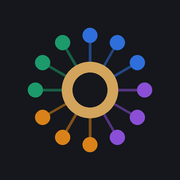
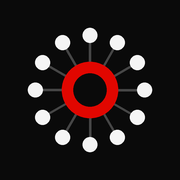
Identidade ROITY (preto e vermelho), visão geral por entregas da semana, mapa mais limpo
- Paleta e logotipo ROITY no app, ícones, apresentação e relatório mensal
- Apresentação com textos voltados ao cliente
- Ligações pilar-mês aparecem só ao focar pilar ou abrir mês
- Visão geral mostra as entregas da semana de cada clínica

Changed region(s): [[0.1389, 0.1389, 0.8611, 0.8611]]

diff --git a/js/app.js b/js/app.js
@@ -97,42 +97,48 @@ VIEWS.visao = () => {
   const meetings = open.filter((t) => t.meeting && t.due >= today && t.due <= wEnd);
   const pendingCr = S.creatives.filter((x) => { const c = clinicById(x.clinicId); return c && currentMonth(c) === x.month && !['em_uso', 'aprovado', 'nao_necessario'].includes(x.status); });
   const goal = S.settings.goalClinics;
-  const byMonth = Array.from({ length: 12 }, (_, i) => journeyClinics().filter((c) => ['ativo', 'onboarding'].includes(c.stage) && currentMonth(c) === i + 1));
-  const maxBy = Math.max(1, ...byMonth.map((l) => l.length));
   const cap = capacity();
   const alerts = buildAlerts();
   const hasDemo = S.clinics.some((c) => c.demo);
-  const upcoming = open.filter((t) => t.due <= wEnd).sort((a, b) => a.due.localeCompare(b.due)).slice(0, 8);
+  const upcoming = open.filter((t) => t.due <= wEnd);
+
+  const weekClinics = journeyClinics().filter((c) => ['ativo', 'onboarding'].includes(c.stage)).map((c) => {
+    const n = currentMonth(c);
+    const tasks = open.filter((t) => t.clinicId === c.id && t.due <= wEnd).sort((a, b) => a.due.localeCompare(b.due));
+    return { c, n, tasks, st: n >= 1 && n <= 12 ? monthData(c, n).state : null };
+  });
+  const hello = (() => { const h = +new Intl.DateTimeFormat('pt-BR', { timeZone: TZ, hour: 'numeric', hour12: false }).format(new Date()); return h < 12 ? 'Bom dia' : h < 18 ? 'Boa tarde' : 'Boa noite'; })();
 
   view().innerHTML = `
     ${hasDemo ? `<div class="notice">Você está vendo <b>dados de demonstração</b> (marcados DEMO). Remova-os em <a href="#/config">Configurações</a> quando cadastrar suas clínicas.</div>` : ''}
-    <div class="kpis">
+    <div class="hello"><small>${fmtDate(today, { weekday: 'long', day: '2-digit', month: 'long' })}</small><h2>${hello}, ${esc(S.me)}.</h2>
+      <p>${overdue.length ? `<b class="red">${overdue.length} entrega(s) atrasada(s)</b> · ` : ''}${upcoming.length ? `${open.filter((t) => t.due <= wEnd).length} entrega(s) até ${fmtShort(wEnd)}` : 'Nada vencendo esta semana'} · ${meetings.length} reunião(ões)</p></div>
+    <div class="kpis k4">
       <a class="kpi" href="#/clinicas"><span>Clínicas ativas</span><b>${active.length}<small> / ${goal}</small></b>
         <div class="bar"><i style="width:${Math.min(100, (active.length / goal) * 100)}%"></i></div></a>
-      <a class="kpi" href="#/financeiro"><span>MRR bruto (contratado)</span><b>${money(mrr)}</b><em>Meta: ${money(goal * 2500)}</em></a>
-      <a class="kpi" href="#/clinicas"><span>Em onboarding</span><b>${onb.length}</b><em>${S.clinics.filter((c) => ['lead', 'proposta', 'negociacao'].includes(c.stage)).length} no pipeline</em></a>
-      <a class="kpi ${overdue.length ? 'warn' : ''}" href="#/tarefas" data-act="tf" data-f="atrasadas"><span>Tarefas atrasadas</span><b>${overdue.length}</b><em>${todayT.length} para hoje</em></a>
-      <a class="kpi" href="#/calendario"><span>Reuniões em 7 dias</span><b>${meetings.length}</b><em>${S.clinics.filter((c) => c.stage === 'ativo').length * 2} previstas/mês</em></a>
-      <a class="kpi" href="#/criativos"><span>Criativos pendentes</span><b>${pendingCr.length}</b><em>mês atual de cada clínica</em></a>
+      <a class="kpi" href="#/financeiro"><span>MRR contratado</span><b>${money(mrr)}</b><em>Meta: ${money(goal * 2500)}</em></a>
+      <a class="kpi ${overdue.length ? 'warn' : ''}" href="#/tarefas" data-act="tf" data-f="atrasadas"><span>Atrasadas</span><b>${overdue.length}</b><em>${todayT.length} para hoje</em></a>
+      <a class="kpi" href="#/criativos"><span>Criativos em produção</span><b>${pendingCr.length}</b><em>${onb.length} clínica(s) em onboarding</em></a>
     </div>
+    <h3 class="sec-t">Entregas da semana por clínica</h3>
+    ${weekClinics.length ? `<div class="wk">${weekClinics.map(({ c, n, tasks, st }) => `
+      <section class="card wkc">
+        <header><div><h3><a href="#/clinica/${c.id}">${esc(c.name)}</a>${demoBadge(c)}</h3>
+          <small>${n >= 1 && n <= 12 ? `Mês ${n} · ${esc(c.journey.template[n - 1].short)}` : n > 12 ? 'Jornada encerrada' : 'Começa ' + fmtShort(c.startDate)}</small></div>
+          <a class="btn sm" href="#/mapa/${c.id}" data-act="openMap" data-id="${c.id}">Mapa</a></header>
+        ${st ? `<div class="wk-p"><div class="bar"><i style="width:${st.p * 100}%"></i></div><span>${Math.round(st.p * 100)}% do mês</span></div>` : ''}
+        ${tasks.length ? `<ul class="tlist">${tasks.slice(0, 6).map((t) => taskRow(t, { day: true })).join('')}</ul>${tasks.length > 6 ? `<a class="link" href="#/tarefas" data-act="tf" data-f="semana">+ ${tasks.length - 6} entrega(s)</a>` : ''}` : empty('Nada para esta semana.')}
+      </section>`).join('')}</div>` : empty('Nenhuma clínica ativa com jornada. Cadastre uma em Clínicas.')}
     <div class="grid2">
-      <section class="card">
-        <header><h3>Próximos 7 dias</h3><a href="#/tarefas" class="link">Ver tarefas →</a></header>
-        ${upcoming.length ? `<ul class="tlist">${upcoming.map(taskRow).join('')}</ul>` : empty('Nada vencendo nos próximos 7 dias.')}
-      </section>
       <section class="card">
         <header><h3>Alertas</h3></header>
         ${alerts.length ? `<ul class="alerts">${alerts.map((a) => `<li class="al-${a.k}"><b>${esc(a.t)}</b><span>${a.d}</span></li>`).join('')}</ul>` : empty('Sem alertas no momento.')}
       </section>
       <section class="card">
-        <header><h3>Clínicas por mês da jornada</h3></header>
-        <div class="months-bars">${byMonth.map((l, i) => `<div class="mb" title="Mês ${i + 1}: ${l.length}"><i style="height:${(l.length / maxBy) * 100}%;background:${PILLARS[MONTHS[i].pillars[0]].color}"></i><b>${l.length || ''}</b><span>${i + 1}</span></div>`).join('')}</div>
-      </section>
-      <section class="card">
-        <header><h3>Carga operacional estimada (mês)</h3><a class="link" href="#/config">Ajustar →</a></header>
+        <header><h3>Carga de trabalho estimada (mês)</h3><a class="link" href="#/config">Ajustar →</a></header>
         ${Object.entries(cap.people).map(([p, v]) => `<div class="cap"><div class="cap-h"><b>${p}</b><span>${v.need.toFixed(0)}h de ${v.cap}h</span></div>
           <div class="bar ${v.need > v.cap ? 'over' : ''}"><i style="width:${Math.min(100, (v.need / v.cap) * 100)}%"></i></div></div>`).join('')}
-        <p class="hint">Estimativa a partir das tarefas do mês atual de cada clínica ativa + ${CREATIVES_PER_MONTH} criativos × ${S.settings.hoursPerCreative}h. Reuniões: ${active.length * 2}h/mês. Não inclui suporte e administração.</p>
+        <p class="hint">Tarefas do mês atual de cada clínica + ${CREATIVES_PER_MONTH} criativos × ${S.settings.hoursPerCreative}h. Reuniões: ${active.length * 2}h/mês. Não inclui suporte.</p>
       </section>
     </div>`;
 };
@@ -454,16 +460,26 @@ VIEWS.relatorio = () => {
       <div class="btns"><label class="chkl"><input type="checkbox" data-act="approveReport" data-c="${c.id}" data-n="${n}" ${approved ? 'checked' : ''}> Revisado e aprovado por Tiago</label>
       <button class="btn primary" data-act="print">Salvar PDF / Imprimir</button></div></div>
     <article class="report">
-      <header><div class="rlogo">ROITY · MBCR</div><h1>Relatório mensal — Mês ${n}</h1><p>${esc(c.name)} · ${fmtDate(monthStart(c, n))} a ${fmtDate(monthEnd(c, n))}</p>
-        <p class="${approved ? '' : 'draft'}">${approved ? `Aprovado por ${esc(approved.who)} em ${fmtDate(approved.at.slice(0, 10))}` : 'RASCUNHO — aguardando revisão de Tiago antes do envio'}</p></header>
-      <h2>${esc(md.title)}</h2><p>${esc(md.desc)}</p>
-      <h3>Ações executadas (${done.length})</h3><ul>${done.map((t) => `<li>${esc(t.title)}${t.evidence ? ` — <i>${esc(t.evidence)}</i>` : ''}</li>`).join('') || '<li>—</li>'}</ul>
-      <h3>Pendências (${pend.length})</h3><ul>${pend.map((t) => `<li>${esc(t.title)} <small>(${esc(t.owner)} · ${statusName(t.status)})</small></li>`).join('') || '<li>Nenhuma</li>'}</ul>
-      ${next ? `<h3>Próximos passos — Mês ${n + 1}: ${esc(next.title)}</h3><ul>${next.novo.map((t) => `<li>${esc(t.title)}</li>`).join('')}</ul>` : '<h3>Próximos passos</h3><p>Plano do próximo ciclo e proposta de renovação.</p>'}
+      <div class="r-band"><span class="r-word">ROITY</span><div><b>Relatório mensal — Mês ${n}</b><small>${esc(md.title).toUpperCase()}</small></div></div>
+      <div class="r-red"></div>
+      <div class="r-body">
+        <div class="r-eyebrow">RELATÓRIO MENSAL · ${fmtDate(monthStart(c, n), { month: 'long', year: 'numeric' }).toUpperCase()}</div>
+        <h1>${esc(c.name)}</h1>
+        <p class="${approved ? 'r-ok' : 'draft'}">${approved ? `Revisado e aprovado por ${esc(approved.who)} em ${fmtDate(approved.at.slice(0, 10))}` : 'RASCUNHO — aguardando revisão de Tiago antes do envio'}</p>
+        <div class="r-stats"><div class="hero"><span>ENTREGAS CONCLUÍDAS</span><b>${done.length}/${md.tasks.length}</b></div><div><span>PERÍODO</span><b>${fmtShort(monthStart(c, n))} – ${fmtShort(monthEnd(c, n))}</b></div><div><span>MÊS DA JORNADA</span><b>${n} de 12</b></div></div>
+        <h2><span class="r-badge">01</span>Foco do mês</h2><p>${esc(md.desc)}</p>
+        <h2><span class="r-badge">02</span>O que entregamos</h2><ol>${done.map((t) => `<li><b>${esc(clientTitle(t.title))}</b>${t.evidence ? ` — ${esc(t.evidence)}` : ''}</li>`).join('') || '<li>—</li>'}</ol>
+        ${pend.length ? `<div class="r-alert"><b>PENDÊNCIAS</b><ul>${pend.map((t) => `<li>${esc(clientTitle(t.title))} <small>(${t.owner === 'Clínica' ? 'depende da clínica' : statusName(t.status)})</small></li>`).join('')}</ul></div>` : ''}
+        <h2><span class="r-badge">03</span>Próximos passos</h2>
+        ${next ? `<p><b>Mês ${n + 1}: ${esc(next.title)}</b></p><ol>${next.novo.map((t) => `<li>${esc(clientTitle(t.title))}</li>`).join('')}</ol>` : '<p>Plano do próximo ciclo e proposta de renovação.</p>'}
+        <footer class="r-foot"><span><b>${esc(c.name).toUpperCase()}</b> · RELATÓRIO MENSAL</span><span>ROITY · MÉTODO MBCR</span></footer>
+      </div>
     </article>`;
 };
 
 // ---------- Apresentar ao cliente (modo venda) ----------
+// títulos sem jargão interno para o cliente
+const clientTitle = (t) => t.replace(/\s*\((NÃO ativar[^)]*|revisão humana\/jurídica|com consentimento|referência: até 10 min|respeitando indicação clínica)\)/i, '').replace(' — registrar aprovação', '').replace('CRM operacional: todo lead com status, responsável e resultado', 'Organização de todos os contatos');
 const PILLAR_DESC = {
   M: 'Anúncios, ofertas e captação de novos pacientes.',
   B: 'Posicionamento, Instagram, conteúdo e criativos.',
@@ -492,7 +508,7 @@ VIEWS.apresentar = () => {
       <a class="btn sm" href="#/visao">Sair da apresentação</a>
     </div>
     <section class="pres-hero">
-      <div class="rlogo">ROITY · MÉTODO MBCR</div>
+      <div class="pres-word">ROITY</div><div class="pres-wsub">Assessoria Empresarial · Método MBCR</div>
       <h1>${c ? `Plano de crescimento para<br><em>${esc(c.name)}</em>` : 'Seus próximos 12 meses<br><em>de crescimento</em>'}</h1>
       <p>Nós assumimos o crescimento comercial da sua clínica com estratégia, processo e atendimento 24 horas.</p>
       <div class="pres-pillars">${Object.values(PILLARS).map((p) => `<div style="--pc:${p.color}"><b>${p.name[0]}</b><span>${p.name}</span><small>${PILLAR_DESC[p.key]}</small></div>`).join('')}</div>
@@ -519,7 +535,7 @@ VIEWS.apresentar = () => {
     </section>`;
   if (mm) mm.destroy();
   mm = new MindMap($('#presMap'), {
-    clinic: null, present: true, getMonthData: (k) => monthData(null, k),
+    clinic: null, present: true, titleFor: clientTitle, getMonthData: (k) => monthData(null, k),
     onMonth: (k) => { ui.presMonth = k; renderPresMonth(); $('#presMonthSec').scrollIntoView({ behavior: 'smooth', block: 'start' }); },
     onTask: () => {}, onTemplateItem: () => {},
   });
@@ -540,7 +556,7 @@ function renderPresMonth() {
         <div class="pm-tags">${md.pillars.map(pillarTag).join('')}</div></div></header>
       <p class="pm-desc">${esc(md.desc)}</p>
       <div class="pm-cols">
-        <div><h4>O que fazemos neste mês</h4><ol>${md.novo.map((t) => `<li><b>${esc(t.title)}</b>${howTo(t.title) ? `<small>${esc(howTo(t.title))}</small>` : ''}</li>`).join('')}</ol></div>
+        <div><h4>O que fazemos neste mês</h4><ol>${md.novo.map((t) => `<li><b>${esc(clientTitle(t.title))}</b><small>${esc(clientText(t.title))}</small></li>`).join('')}</ol></div>
         <div><h4>O que você recebe</h4><ul class="pm-out">${md.outputs.map((o) => `<li>${esc(o)}</li>`).join('')}</ul>
           <div class="pm-plus">+ continua: até 6 criativos, 2 reuniões, Meta Ads, 24AGÁ e relatório.</div></div>
       </div>

diff --git a/css/app.css b/css/app.css
@@ -1,6 +1,6 @@
 :root {
-  --bg: #f4f3ef; --bg2: #ebe9e3; --card: #ffffff; --ink: #17181c; --ink2: #3d3f46; --muted: #6c6e76;
-  --line: #e2e0da; --line-strong: #c9c6be; --accent: #a8772f; --accent-ink: #fff; --accent-soft: #f3e8d6;
+  --bg: #f4f4f4; --bg2: #ececec; --card: #ffffff; --ink: #0a0a0a; --ink2: #333333; --muted: #6b6b6b;
+  --line: #e6e6e6; --line-strong: #cfcfcf; --accent: #e10600; --accent-ink: #fff; --accent-soft: #fff2f1;
   --p-m: #2f6fdb; --p-b: #8a4fd6; --p-c: #d9821a; --p-r: #1c9a6b;
   --ok: #1c9a6b; --warn: #d9821a; --bad: #d1423f; --info: #2f6fdb; --block: #7a5c9e;
   --r: 14px; --shadow: 0 1px 2px rgba(20, 20, 30, .05), 0 6px 24px rgba(20, 20, 30, .05);
@@ -9,14 +9,14 @@
 }
 @media (prefers-color-scheme: dark) {
   :root:not([data-theme="light"]) {
-    --bg: #111215; --bg2: #191a1f; --card: #1b1c21; --ink: #f1efe9; --ink2: #cfccc4; --muted: #8f9098;
-    --line: #2a2b31; --line-strong: #3d3e46; --accent: #d2a45c; --accent-ink: #15171c; --accent-soft: #33291a;
+    --bg: #0a0a0a; --bg2: #171717; --card: #141414; --ink: #f5f5f5; --ink2: #cfcfcf; --muted: #8e8e8e;
+    --line: #262626; --line-strong: #3a3a3a; --accent: #ff2a1f; --accent-ink: #fff; --accent-soft: #2a0f0d;
     --p-m: #5b93f0; --p-b: #a879ea; --p-c: #eea041; --p-r: #3cc08f; --shadow: 0 1px 2px rgba(0, 0, 0, .3); color-scheme: dark;
   }
 }
 :root[data-theme="dark"] {
-  --bg: #111215; --bg2: #191a1f; --card: #1b1c21; --ink: #f1efe9; --ink2: #cfccc4; --muted: #8f9098;
-  --line: #2a2b31; --line-strong: #3d3e46; --accent: #d2a45c; --accent-ink: #15171c; --accent-soft: #33291a;
+  --bg: #0a0a0a; --bg2: #171717; --card: #141414; --ink: #f5f5f5; --ink2: #cfcfcf; --muted: #8e8e8e;
+  --line: #262626; --line-strong: #3a3a3a; --accent: #ff2a1f; --accent-ink: #fff; --accent-soft: #2a0f0d;
   --p-m: #5b93f0; --p-b: #a879ea; --p-c: #eea041; --p-r: #3cc08f; --shadow: 0 1px 2px rgba(0, 0, 0, .3); color-scheme: dark;
 }
 * { box-sizing: border-box; }
@@ -36,7 +36,7 @@ small { color: var(--muted); }
 .side { width: 232px; flex: none; background: var(--card); border-right: 1px solid var(--line); display: flex; flex-direction: column; padding: 18px 12px; overflow-y: auto; }
 .brand { display: flex; gap: 10px; align-items: center; padding: 4px 8px 18px; }
 .brand b { display: block; font-size: 16px; } .brand small { font-size: 12px; }
-.logo { width: 34px; height: 34px; border-radius: 10px; background: var(--ink); color: var(--bg); display: grid; place-items: center; font-weight: 800; letter-spacing: -.04em; }
+.logo { height: 34px; padding: 0 10px; border-radius: 9px; background: #0a0a0a; color: #fff; display: grid; place-items: center; font-weight: 900; letter-spacing: .08em; font-size: 13px; border-bottom: 3px solid #e10600; }
 #nav a { display: flex; gap: 10px; align-items: center; padding: 9px 10px; border-radius: 10px; color: var(--ink2); font-size: 14px; margin-bottom: 2px; }
 #nav a:hover { background: var(--bg2); }
 #nav a.active { background: var(--accent-soft); color: var(--ink); font-weight: 600; }
@@ -309,8 +309,8 @@ textarea { resize: vertical; width: 100%; }
 
 /* relatório */
 .report { background: #fff; color: #17181c; max-width: 820px; margin: 0 auto; padding: 40px; border-radius: 16px; border: 1px solid var(--line); }
-.report header { border-bottom: 3px solid #a8772f; padding-bottom: 14px; margin-bottom: 18px; }
-.rlogo { font-weight: 800; letter-spacing: .14em; color: #a8772f; font-size: 13px; }
+.report header { border-bottom: 3px solid #e10600; padding-bottom: 14px; margin-bottom: 18px; }
+.rlogo { font-weight: 800; letter-spacing: .14em; color: #e10600; font-size: 13px; }
 .report h1 { font-size: 26px; margin: 6px 0; } .report h2 { font-size: 19px; margin-top: 10px; } .report h3 { margin: 22px 0 8px; font-size: 15px; }
 .report .tbl td, .report .tbl th { border-color: #e2e0da; color: #17181c; }
 .report .draft { color: #d1423f; font-weight: 700; }
@@ -352,7 +352,7 @@ dialog::backdrop { background: rgba(10, 10, 14, .45); }
 @media (max-width: 760px) {
   body { font-size: 15px; }
   .side { display: none; }
-  .brand-m { display: block; } .brand-m .logo { width: 30px; height: 30px; font-size: 14px; }
+  .brand-m { display: block; } .brand-m .logo { height: 28px; padding: 0 8px; font-size: 11px; }
   .top { padding: calc(10px + env(safe-area-inset-top)) 16px 10px; }
   .top h1 { font-size: 18px; }
   #view { padding: 14px 16px calc(96px + env(safe-area-inset-bottom)); }
@@ -370,7 +370,7 @@ dialog::backdrop { background: rgba(10, 10, 14, .45); }
   .map-body.mode-mapa { height: calc(100dvh - 290px); min-height: 380px; }
   .mm-search input { width: 150px; font-size: 14px; }
   .mm-legend { display: none; }
-  .mm-mini { width: 84px; height: 60px; }
+  .mm-mini { display: none; }
   .map-body.mode-mapa { height: calc(100dvh - 250px); }
   .tl-branches { grid-template-columns: 1fr; }
   .timeline { padding-left: 0; } .timeline::before { left: 19px; } .tl-node { width: 38px; height: 38px; } .tl-item { gap: 10px; }
@@ -401,10 +401,11 @@ dialog::backdrop { background: rgba(10, 10, 14, .45); }
 .howto p { margin: 4px 0 0; }
 
 /* ---------- polimento visual ---------- */
-.c-bg { fill: #15171c; stroke: rgba(255,255,255,.08); stroke-width: 1; }
+.c-bg { fill: #0a0a0a; stroke: #e10600; stroke-width: 0; }
 .c-t1, .c-t2 { fill: #f4f3ef; }
-.c-t3 { fill: #d2a45c; }
-.mm-edge.cross { opacity: .26; }
+.c-t3 { fill: #ff4a40; }
+.mm-edge.cross { opacity: .1; }
+.mm-edge.cross.hl { opacity: .9; stroke-width: 2.6; }
 .mm-node.month:hover .m-bg { filter: drop-shadow(0 8px 18px rgba(0,0,0,.14)); }
 
 /* ---------- modo apresentação ---------- */
@@ -457,3 +458,66 @@ body.present #view { max-width: 1080px; margin: 0 auto; padding: 0 24px 80px; }
   .pres-map { height: 60vh; }
   .pm-dots button { width: 28px; height: 28px; font-size: 12px; }
 }
+
+/* visão geral */
+.hello { margin: 4px 0 18px; }
+.hello small { display: inline-block; font-size: 13px; }
+.hello small::first-letter { text-transform: uppercase; }
+.hello h2 { font-size: 28px; letter-spacing: -.02em; margin: 2px 0 4px; }
+.hello p { margin: 0; color: var(--ink2); }
+.red { color: var(--accent); }
+.kpis.k4 { grid-template-columns: repeat(4, 1fr); }
+.sec-t { font-size: 13px; text-transform: uppercase; letter-spacing: .08em; color: var(--muted); margin: 8px 0 12px; }
+.wk { display: grid; grid-template-columns: repeat(auto-fill, minmax(360px, 1fr)); gap: 16px; margin-bottom: 16px; }
+.wk .card { margin: 0; border-top: 3px solid var(--accent); }
+.wkc header h3 a:hover { color: var(--accent); }
+.wk-p { display: flex; align-items: center; gap: 10px; font-size: 12px; color: var(--muted); margin-bottom: 6px; }
+.wk-p .bar { flex: 1; }
+@media (max-width: 760px) { .kpis.k4 { grid-template-columns: 1fr 1fr; } .wk { grid-template-columns: 1fr; } .hello h2 { font-size: 23px; } }
+
+/* ---------- marca ROITY: apresentação (sempre clara) ---------- */
+body.present { --bg: #ffffff; --bg2: #f4f4f4; --card: #ffffff; --ink: #0a0a0a; --ink2: #333; --muted: #6b6b6b; --line: #e6e6e6; --line-strong: #cfcfcf; --accent: #e10600; --accent-soft: #fff2f1; color-scheme: light; background: #fff; color: #0a0a0a; }
+.pres-hero { background: #0a0a0a; color: #fff; border-radius: 26px; padding: 48px 32px 36px; margin-top: 8px; border-bottom: 6px solid #e10600; }
+.pres-word { font-weight: 900; font-size: 40px; letter-spacing: .12em; }
+.pres-wsub { font-size: 12px; letter-spacing: .2em; text-transform: uppercase; color: #bdbdbd; margin-top: 2px; }
+.pres-hero h1 { color: #fff; } .pres-hero h1 em { color: #ff2a1f; }
+.pres-hero > p { color: #d6d6d6; }
+.pres-pillars div { background: #161616; border-color: #262626; }
+.pres-pillars span { color: #fff; } .pres-pillars small { color: #a8a8a8; }
+.pres-sec h2 { position: relative; padding-bottom: 10px; }
+.pres-sec h2::after { content: ""; position: absolute; left: 0; bottom: 0; width: 56px; height: 3px; background: #e10600; }
+.pres-monthly span { color: #e10600; }
+.pres-monthly div { border-top: 3px solid #0a0a0a; }
+.pres-terms li { border-left: 4px solid #e10600; }
+.pm-dots button.on { background: #0a0a0a; border-color: #0a0a0a; }
+.pm-card { border-top-color: #e10600; }
+.pm-num { background: #e10600; }
+.pm-out li { background: #f4f4f4; }
+.pm-out li::before { color: #e10600; }
+
+/* ---------- marca ROITY: relatório ---------- */
+.report { padding: 0; overflow: hidden; }
+.r-band { background: #0a0a0a; color: #fff; display: flex; align-items: center; justify-content: space-between; gap: 16px; padding: 22px 32px; }
+.r-word { font-weight: 900; letter-spacing: .12em; font-size: 24px; }
+.r-band div { text-align: right; } .r-band b { display: block; font-size: 17px; } .r-band small { color: #ff2a1f; font-size: 11px; letter-spacing: .12em; font-weight: 700; }
+.r-red { height: 5px; background: #e10600; }
+.r-body { padding: 28px 32px 32px; }
+.r-eyebrow { color: #e10600; font-size: 12px; font-weight: 800; letter-spacing: .14em; }
+.report h1 { font-size: 30px; margin: 6px 0 4px; }
+.report h2 { display: flex; align-items: center; gap: 10px; font-size: 19px; margin: 26px 0 10px; padding-bottom: 8px; border-bottom: 2px solid #e10600; }
+.r-badge { width: 32px; height: 32px; border-radius: 50%; background: #e10600; color: #fff; display: grid; place-items: center; font-size: 13px; font-weight: 800; flex: none; }
+.r-ok { color: #1c9a6b; font-weight: 700; }
+.r-stats { display: grid; grid-template-columns: 1.2fr 1fr 1fr; gap: 10px; margin: 18px 0 6px; }
+.r-stats div { background: #f4f4f4; border-radius: 12px; padding: 14px; display: flex; flex-direction: column; gap: 4px; }
+.r-stats div.hero { background: #e10600; color: #fff; }
+.r-stats span { font-size: 10.5px; font-weight: 700; letter-spacing: .1em; color: #6b6b6b; } .r-stats .hero span { color: #ffe1df; }
+.r-stats b { font-size: 22px; color: #0a0a0a; } .r-stats .hero b { color: #fff; font-size: 26px; }
+.report ol { padding-left: 20px; display: flex; flex-direction: column; gap: 6px; }
+.r-alert { background: #fff2f1; border-left: 5px solid #e10600; border-radius: 10px; padding: 12px 16px; margin-top: 16px; }
+.r-alert > b { color: #e10600; font-size: 12px; letter-spacing: .1em; } .r-alert ul { margin: 6px 0 0; padding-left: 18px; }
+.r-foot { display: flex; justify-content: space-between; gap: 10px; border-top: 1px solid #e6e6e6; margin-top: 28px; padding-top: 10px; font-size: 10.5px; color: #6b6b6b; letter-spacing: .06em; }
+@media print { .r-band, .r-red, .r-stats .hero, .r-badge, .r-alert { -webkit-print-color-adjust: exact; print-color-adjust: exact; } }
+@media (max-width: 760px) { .r-stats { grid-template-columns: 1fr; } .r-band, .r-body { padding-left: 18px; padding-right: 18px; } .pres-hero { padding: 32px 18px 26px; } .pres-word { font-size: 30px; } }
+
+/* tema claro: acabamento */
+:root:not([data-theme="dark"]) .m-bg { filter: drop-shadow(0 3px 8px rgba(0,0,0,.06)); }

diff --git a/js/howto.js b/js/howto.js
@@ -83,3 +83,65 @@ const HOWTO = {
   'Relatório mensal (revisado por Tiago)': 'Montar o relatório do mês (ações, indicadores, pendências e próximos passos), Tiago revisa antes de enviar.',
 };
 const howTo = (title) => HOWTO[title] || '';
+
+// Versão para o cliente (modo Apresentar): linguagem do que a clínica ganha.
+const HOWTO_CLIENT = {
+  'Checklist de acessos (Instagram, Meta Business, contas de anúncio)': 'Organizamos com você todos os acessos (Instagram, Meta e WhatsApp) para começar sem travas.',
+  'Diagnóstico da clínica': 'Entendemos seu faturamento, serviços, margens, capacidade e metas. Esse é o ponto de partida para medir sua evolução.',
+  'Definir responsável humano pelos fechamentos': 'Definimos juntos quem da sua equipe recebe os contatos e fecha os agendamentos.',
+  'Procedimentos prioritários: análise de rentabilidade e decisão': 'Analisamos quais procedimentos dão mais retorno e recomendamos onde focar.',
+  'Orientações de gravação para a clínica': 'Você recebe um guia simples para gravar vídeos que vendem, mesmo com o celular.',
+  'Planejamento de ofertas e calendário inicial': 'Criamos as primeiras ofertas e o calendário de conteúdo do mês.',
+  'Organização do Instagram e posicionamento inicial': 'Seu perfil fica claro e profissional: quem você atende, o que faz e como agendar.',
+  'Mensuração e campanhas iniciais Meta Ads': 'Colocamos as primeiras campanhas no ar, com testes de público, oferta e criativo.',
+  'Implantação inicial 24AGÁ': 'Seu atendimento 24 horas começa a funcionar: responde, qualifica e passa para sua equipe.',
+  'Primeiro relatório e plano do mês 2': 'Você recebe o primeiro relatório com o que foi feito, os primeiros números e o plano do próximo mês.',
+  'Treinamento comercial da recepção': 'Treinamos sua equipe para atender melhor, contornar objeções e fechar mais.',
+  'Playbook comercial e modelos de proposta': 'Você recebe roteiros de conversa, mensagens prontas e modelos de proposta.',
+  'CRM operacional: todo lead com status, responsável e resultado': 'Organizamos seus contatos para nenhum paciente interessado se perder.',
+  'Alinhar CRM e 24AGÁ': 'Seu atendimento automático e sua organização de contatos passam a falar a mesma língua.',
+  'Iniciar campanhas mensais de follow-up e retenção (com consentimento)': 'Começam as campanhas para recuperar quem não fechou e manter seus pacientes por perto.',
+  'Ajustar scripts, ofertas e criativos pelas métricas': 'Ajustamos mensagens, ofertas e anúncios com base nos primeiros resultados.',
+  'Treinar tempo de resposta humano (referência: até 10 min)': 'Sua equipe passa a responder rápido, enquanto o paciente ainda está interessado.',
+  'Protocolo de confirmação ativa por humano': 'Criamos um processo de confirmação que reduz faltas na agenda.',
+  'Recuperação de contatos sem resposta': 'Quem parou de responder recebe um novo contato, sem exageros.',
+  'Auditoria amostral de conversas e gargalos': 'Analisamos conversas reais para descobrir onde os pacientes estão se perdendo.',
+  'Dashboard de conversão e plano de correção': 'Você vê claramente quantos contatos viram pacientes e o que vamos melhorar.',
+  'Revisão documentada dos quatro eixos': 'Revisamos público, criativos, oferta e orçamento para investir melhor.',
+  'Diagnóstico de causa antes de reorientar a oferta': 'Antes de mudar qualquer coisa, descobrimos a causa real do resultado.',
+  'Matriz de testes e histórico de decisões': 'Cada teste fica registrado, com o que aprendemos e decidimos.',
+  'Plano de otimização': 'Você recebe o plano de melhorias para as próximas semanas.',
+  'Classificar leads por situação': 'Organizamos sua base: quem fechou, quem não respondeu, quem faltou e quem está negociando.',
+  'Segmentos e automações 24AGÁ com cadência e limites': 'Cada grupo recebe a mensagem certa, no momento certo, sem excesso.',
+  'Campanhas personalizadas e ofertas de recuperação': 'Ofertas específicas para trazer de volta quem quase fechou.',
+  'Relatório de recuperação': 'Você vê quantos pacientes foram recuperados.',
+  'Auditoria de faturamento, leads e origem dos novos pacientes': 'Comparamos seu faturamento com o início e mostramos de onde vieram os novos pacientes.',
+  'Conferir investimento, pagantes, taxa de fechamento e adesão': 'Revisamos investimento, novos pacientes e a taxa de fechamento do semestre.',
+  'Avaliar meta individual conforme contrato (revisão humana/jurídica)': 'Avaliamos juntos o resultado frente à meta definida no início.',
+  'Relatório executivo semestral e plano dos meses 7–12': 'Você recebe o balanço dos 6 meses e o plano para o segundo semestre.',
+  'Segmentação da base antiga': 'Organizamos seus pacientes antigos para trazê-los de volta.',
+  'Ofertas de retorno e manutenção (respeitando indicação clínica)': 'Ofertas de manutenção e retorno, sempre respeitando a indicação clínica.',
+  'Mensagens aprovadas na 24AGÁ com consentimento e opt-out': 'Mensagens aprovadas por você, enviadas só para quem autorizou.',
+  'Métricas de reativação': 'Você vê quantos pacientes antigos voltaram.',
+  'Desenhar proposta de indicação (NÃO ativar incentivo sem revisão)': 'Desenhamos um programa para seus pacientes indicarem amigos.',
+  'Verificar regras do conselho, legislação e viabilidade': 'Tudo é validado com as regras do seu conselho profissional antes de ir ao ar.',
+  'Alternativa de indicação sem incentivo financeiro': 'Opções de indicação que funcionam mesmo sem desconto.',
+  'Materiais, treinamento e controle manual pela clínica': 'Sua equipe recebe materiais e treinamento para o programa de indicação.',
+  'Definir e documentar a fórmula da taxa de fechamento': 'Definimos com clareza como medir quantos contatos viram pacientes.',
+  'Auditoria do registro de fechamentos pela clínica': 'Conferimos os registros para os números refletirem a realidade.',
+  'Painel de previsibilidade': 'Você passa a prever quantos pacientes novos virão no mês.',
+  'Treinamento corretivo': 'Treinamento focado nos pontos que mais podem aumentar suas vendas.',
+  'Mensagem de pós-atendimento (24AGÁ)': 'Seus pacientes recebem uma mensagem de cuidado após o atendimento.',
+  'Lembrete de retorno': 'Lembretes automáticos trazem o paciente de volta no tempo certo.',
+  'Pesquisa breve de satisfação': 'Uma pesquisa rápida mostra o que seus pacientes estão achando.',
+  'Fluxo humano para reclamações e assuntos clínicos': 'Reclamações e dúvidas clínicas vão sempre direto para sua equipe.',
+  'Medir envios, entregas, respostas e satisfação': 'Você acompanha a satisfação dos seus pacientes.',
+  'Decisão de mídia com a clínica (pausar ou manter) — registrar aprovação': 'Decidimos juntos se pausamos os anúncios e trabalhamos a base, ou se mantemos.',
+  'Plano da base: follow-up, reativação e retenção': 'Um plano para gerar resultado com os pacientes que você já tem.',
+  'Medir desempenho da base e economia de mídia': 'Você vê quanto a sua base gerou e quanto economizou em anúncios.',
+  'Revisão do ano completo': 'Revisamos o ano inteiro: investimento, pacientes, faturamento e retorno.',
+  'Qualidade dos registros e processos implementados': 'Avaliamos tudo que ficou implantado na sua clínica.',
+  'Relatório anual executivo': 'Você recebe o relatório completo do ano.',
+  'Plano do próximo ano e proposta de renovação': 'Apresentamos o plano do próximo ano para continuar crescendo.',
+};
+const clientText = (title) => HOWTO_CLIENT[title] || HOWTO[title] || '';

diff --git a/index.html b/index.html
@@ -5,7 +5,7 @@
   <meta name="viewport" content="width=device-width, initial-scale=1, viewport-fit=cover">
   <title>Roity MBCR</title>
   <meta name="description" content="Gestão da assessoria Roity e da jornada MBCR das clínicas.">
-  <meta name="theme-color" content="#15171c">
+  <meta name="theme-color" content="#0a0a0a">
   <meta name="apple-mobile-web-app-capable" content="yes">
   <meta name="mobile-web-app-capable" content="yes">
   <meta name="apple-mobile-web-app-status-bar-style" content="black-translucent">
@@ -18,12 +18,12 @@
 <body>
   <div class="app">
     <aside class="side">
-      <div class="brand"><span class="logo" aria-hidden="true">R</span><div><b>Roity</b><small>MBCR Control</small></div></div>
+      <div class="brand"><span class="logo" aria-hidden="true">ROITY</span><div><b>MBCR</b><small>Control</small></div></div>
       <nav id="nav" aria-label="Principal"></nav>
     </aside>
     <div class="main">
       <header class="top">
-        <div class="brand-m"><span class="logo" aria-hidden="true">R</span></div>
+        <div class="brand-m"><span class="logo" aria-hidden="true">ROITY</span></div>
         <h1 id="topTitle">Visão geral</h1>
         <button class="btn primary sm" id="quickAdd">+ Clínica</button>
       </header>

diff --git a/js/map.js b/js/map.js
@@ -148,7 +148,7 @@ class MindMap {
       const d = `M${e.from[0]},${e.from[1]} C${c1[0]},${c1[1]} ${c2[0]},${c2[1]} ${e.to[0]},${e.to[1]}`;
       const col = e.pillar ? PILLARS[e.pillar].color : 'var(--line-strong)';
       const dim = fp && e.pillar && e.pillar !== fp ? ' dim' : '';
-      const hl = fp && e.pillar === fp ? ' hl' : '';
+      const hl = (fp && e.pillar === fp) || (e.type === 'cross' && !fp && e.month === this.expanded) ? ' hl' : '';
       out += `<path class="mm-edge ${e.type}${dim}${hl}" data-month="${e.month || ''}" d="${d}" style="stroke:${col}"/>`;
     }
     for (const nd of nodes) out += this.nodeSVG(nd, match, fp, q);
@@ -217,7 +217,7 @@ class MindMap {
         <rect class="l-bg" width="${w}" height="${LH}" rx="10"/>
         <rect width="4" height="${LH - 16}" x="8" y="8" rx="2" style="fill:${col}"/>
         <circle class="l-st" cx="26" cy="${LH / 2}" r="9"/><text class="l-mk" x="26" y="${LH / 2 + 4}">${mark}</text>
-        <text class="l-t" x="42" y="19">${esc(trunc(it.title, 44))}</text>
+        <text class="l-t" x="42" y="19">${esc(trunc(this.o.titleFor ? this.o.titleFor(it.title) : it.title, 44))}</text>
         <text class="l-s" x="42" y="36">${esc(trunc(sub, 52))}</text></g>`;
     }
     return '';

diff --git a/sw.js b/sw.js
@@ -1,5 +1,5 @@
 // Service worker: deixa o app abrir offline. Mude VERSION a cada atualização publicada.
-const VERSION = 'mbcr-v1.2.0';
+const VERSION = 'mbcr-v1.3.0';
 const FILES = ['./', './index.html', './css/app.css', './js/template.js', './js/howto.js', './js/store.js', './js/map.js', './js/app.js',
   './manifest.webmanifest', './icons/icon-192.png', './icons/icon-512.png', './icons/apple-touch-icon.png'];
 self.addEventListener('install', (e) => { e.waitUntil(caches.open(VERSION).then((c) => c.addAll(FILES))); self.skipWaiting(); });
